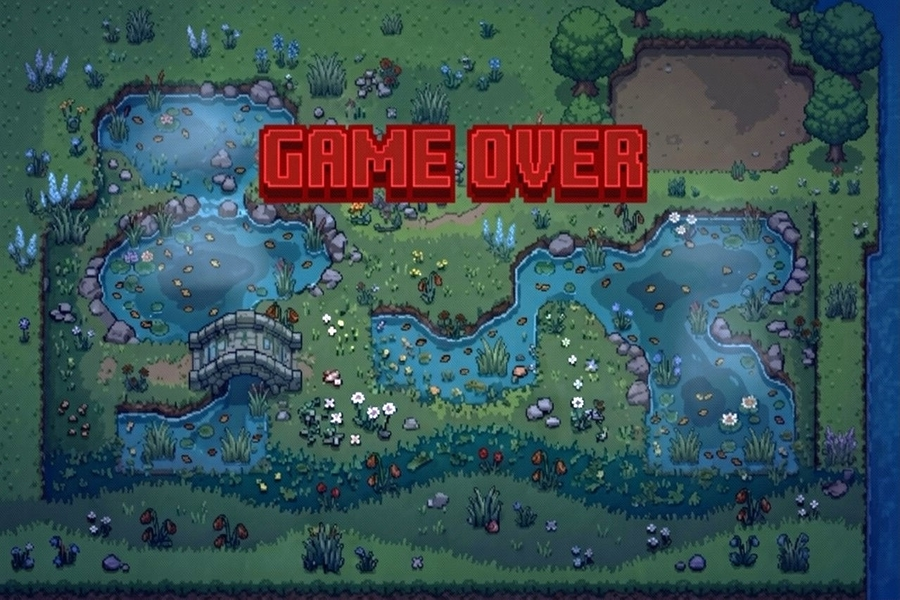
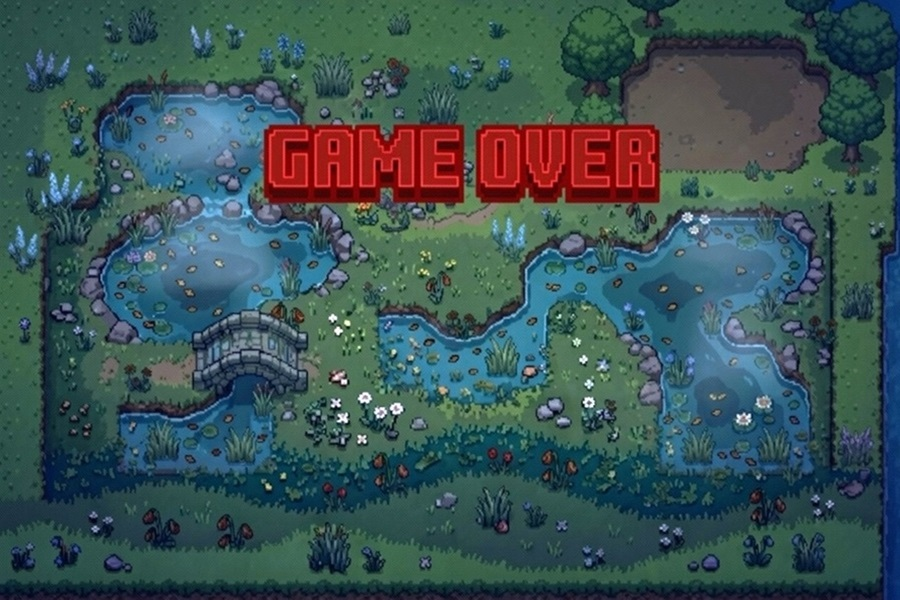
Chore (assets): Edit background_image.jpg and game_over_screen.jpg to fix the scale mismatch. Fix: Add resource_path to font path and add new variable, death_frame to only save game_info once after game_over and not every frame.

diff --git a/main.py b/main.py
@@ -185,7 +185,7 @@ def get_font(size, italic, bold):
     """Returns specified font from _font_cache, thus preventing unnecessary IO calls for same key"""
     key = (size, italic, bold)
     if key not in _font_cache:
-        font = pygame.font.Font("assets/PressStart2P-Regular.ttf", size=size)
+        font = pygame.font.Font(resource_path("assets/PressStart2P-Regular.ttf"), size=size)
         font.set_bold(bold)
         font.set_italic(italic)
         _font_cache[key] = font
@@ -501,6 +501,7 @@ def gameloop():
     green_food_y= random.randint(25,550)
     snake_x = random.randint(350,520)
     snake_y = random.randint(200,400)
+    death_frame = False
 
     velocity_x = 0
     velocity_y = 0
@@ -522,31 +523,32 @@ def gameloop():
     
         if game_over:
             fps = 30
-            appocity = (round(score/time_taken_to_score,2)) if time_taken_to_score != 0 else None
-            
-            # Checking if the current appocity is greater than the highest appocity and updating it if necessary
-            if appocity is not None and (appocity) > float(h_appocity) and not testing_mode and not I_key_used:
-                h_appocity = str(appocity)
-                in_game_info[1] = str(appocity)
-            
-            # Checking if the current score is greater than the highscore and updating it if necessary
-            if score > int(h_score) and not testing_mode and not I_key_used:
-                h_score = str(score)
-                in_game_info[0] = str(score)
-            
-            if in_game_info[2] != str(Dynamic_FPS):
-                in_game_info[2] = str(Dynamic_FPS)
+            if death_frame:
+                death_frame = False
+                appocity = (round(score/time_taken_to_score,2)) if time_taken_to_score != 0 else None
+                
+                # Checking if the current appocity is greater than the highest appocity and updating it if necessary
+                if appocity is not None and (appocity) > float(h_appocity) and not testing_mode and not I_key_used:
+                    h_appocity = str(appocity)
+                    in_game_info[1] = str(appocity)
+                
+                # Checking if the current score is greater than the highscore and updating it if necessary
+                if score > int(h_score) and not testing_mode and not I_key_used:
+                    h_score = str(score)
+                    in_game_info[0] = str(score)
+                
+                if in_game_info[2] != str(Dynamic_FPS):
+                    in_game_info[2] = str(Dynamic_FPS)
 
-            save_data("\n".join(in_game_info))
+                save_data("\n".join(in_game_info))
 
-            # with open(resource_path("highscores.txt")) as i:
-            #     h_appocity = int(i.read()[i.read().index("\n")+1:])
-            # print(h_appocity)
+                show_green_apple = random.choice([False, False, False, False, True])
 
-            show_green_apple = random.choice([False, False, False, False, True])
             game_window.fill(white)
             game_window.blit(go, (0, 0))
+
             plot_snake(game_window, (blue[0]+80, blue[1], blue[2]-100), s_lst, snake) # Snake frozen in time after death.
+            # game_window.blit(red_apple, (food_x, food_y)) if testing_mode else None
             difficulty = "Easy" if apple_collrate == 16 else "Medium" if apple_collrate == 12 else "Hard" if apple_collrate == 8 else "Ultra-Hard" if apple_collrate == 4 else "not known"
 
             load_text('PRESS ENTER TO CONTINUE',
@@ -609,7 +611,7 @@ def gameloop():
                     if appocity is not None and (appocity) > float(h_appocity):
                         h_appocity = str(appocity)
                         in_game_info[1] = str(appocity)
-                    print(time_taken_to_score, appocity, h_appocity)
+                    # print(time_taken_to_score, appocity, h_appocity)
                     
                     # Checking if the current score is greater than the highscore and updating it if necessary
                     if score > int(h_score):
@@ -643,7 +645,7 @@ def gameloop():
                     if event.key == pygame.K_t and pygame.key.get_mods() & pygame.KMOD_LCTRL:
                         testing_mode = not testing_mode
                         testing_mode_time_start = time.time()
-                        print(testing_mode)
+                        # print(testing_mode)
                     #  Toggle Independence Month State, to access green apple
                     if testing_mode and event.key == pygame.K_p and pygame.key.get_mods() & pygame.KMOD_LCTRL:
                         global is_independence_month
@@ -692,6 +694,7 @@ def gameloop():
                         #     init_velocity_change = 0
                     elif event.key == pygame.K_o:
                         game_over = True
+                        death_frame = True
                         if time1 is not None:
                             time_taken_to_score = round(time.time() - time1 - time_paused, 2)
                         else:
@@ -806,6 +809,7 @@ def gameloop():
 
             if self_collision:
                 game_over = True
+                death_frame = True
                 if time1 is not None:
                     time_taken_to_score = round(time.time() - time1 - time_paused, 2)
                 else:
@@ -820,6 +824,7 @@ def gameloop():
 
             if snake_x <= 0 or snake_x + snake > 900 or snake_y <= 0 or snake_y + snake > 600:
                 game_over = True
+                death_frame = True
                 if time1 is not None:
                     time_taken_to_score = round(time.time() - time1 - time_paused, 2)
                 else:
